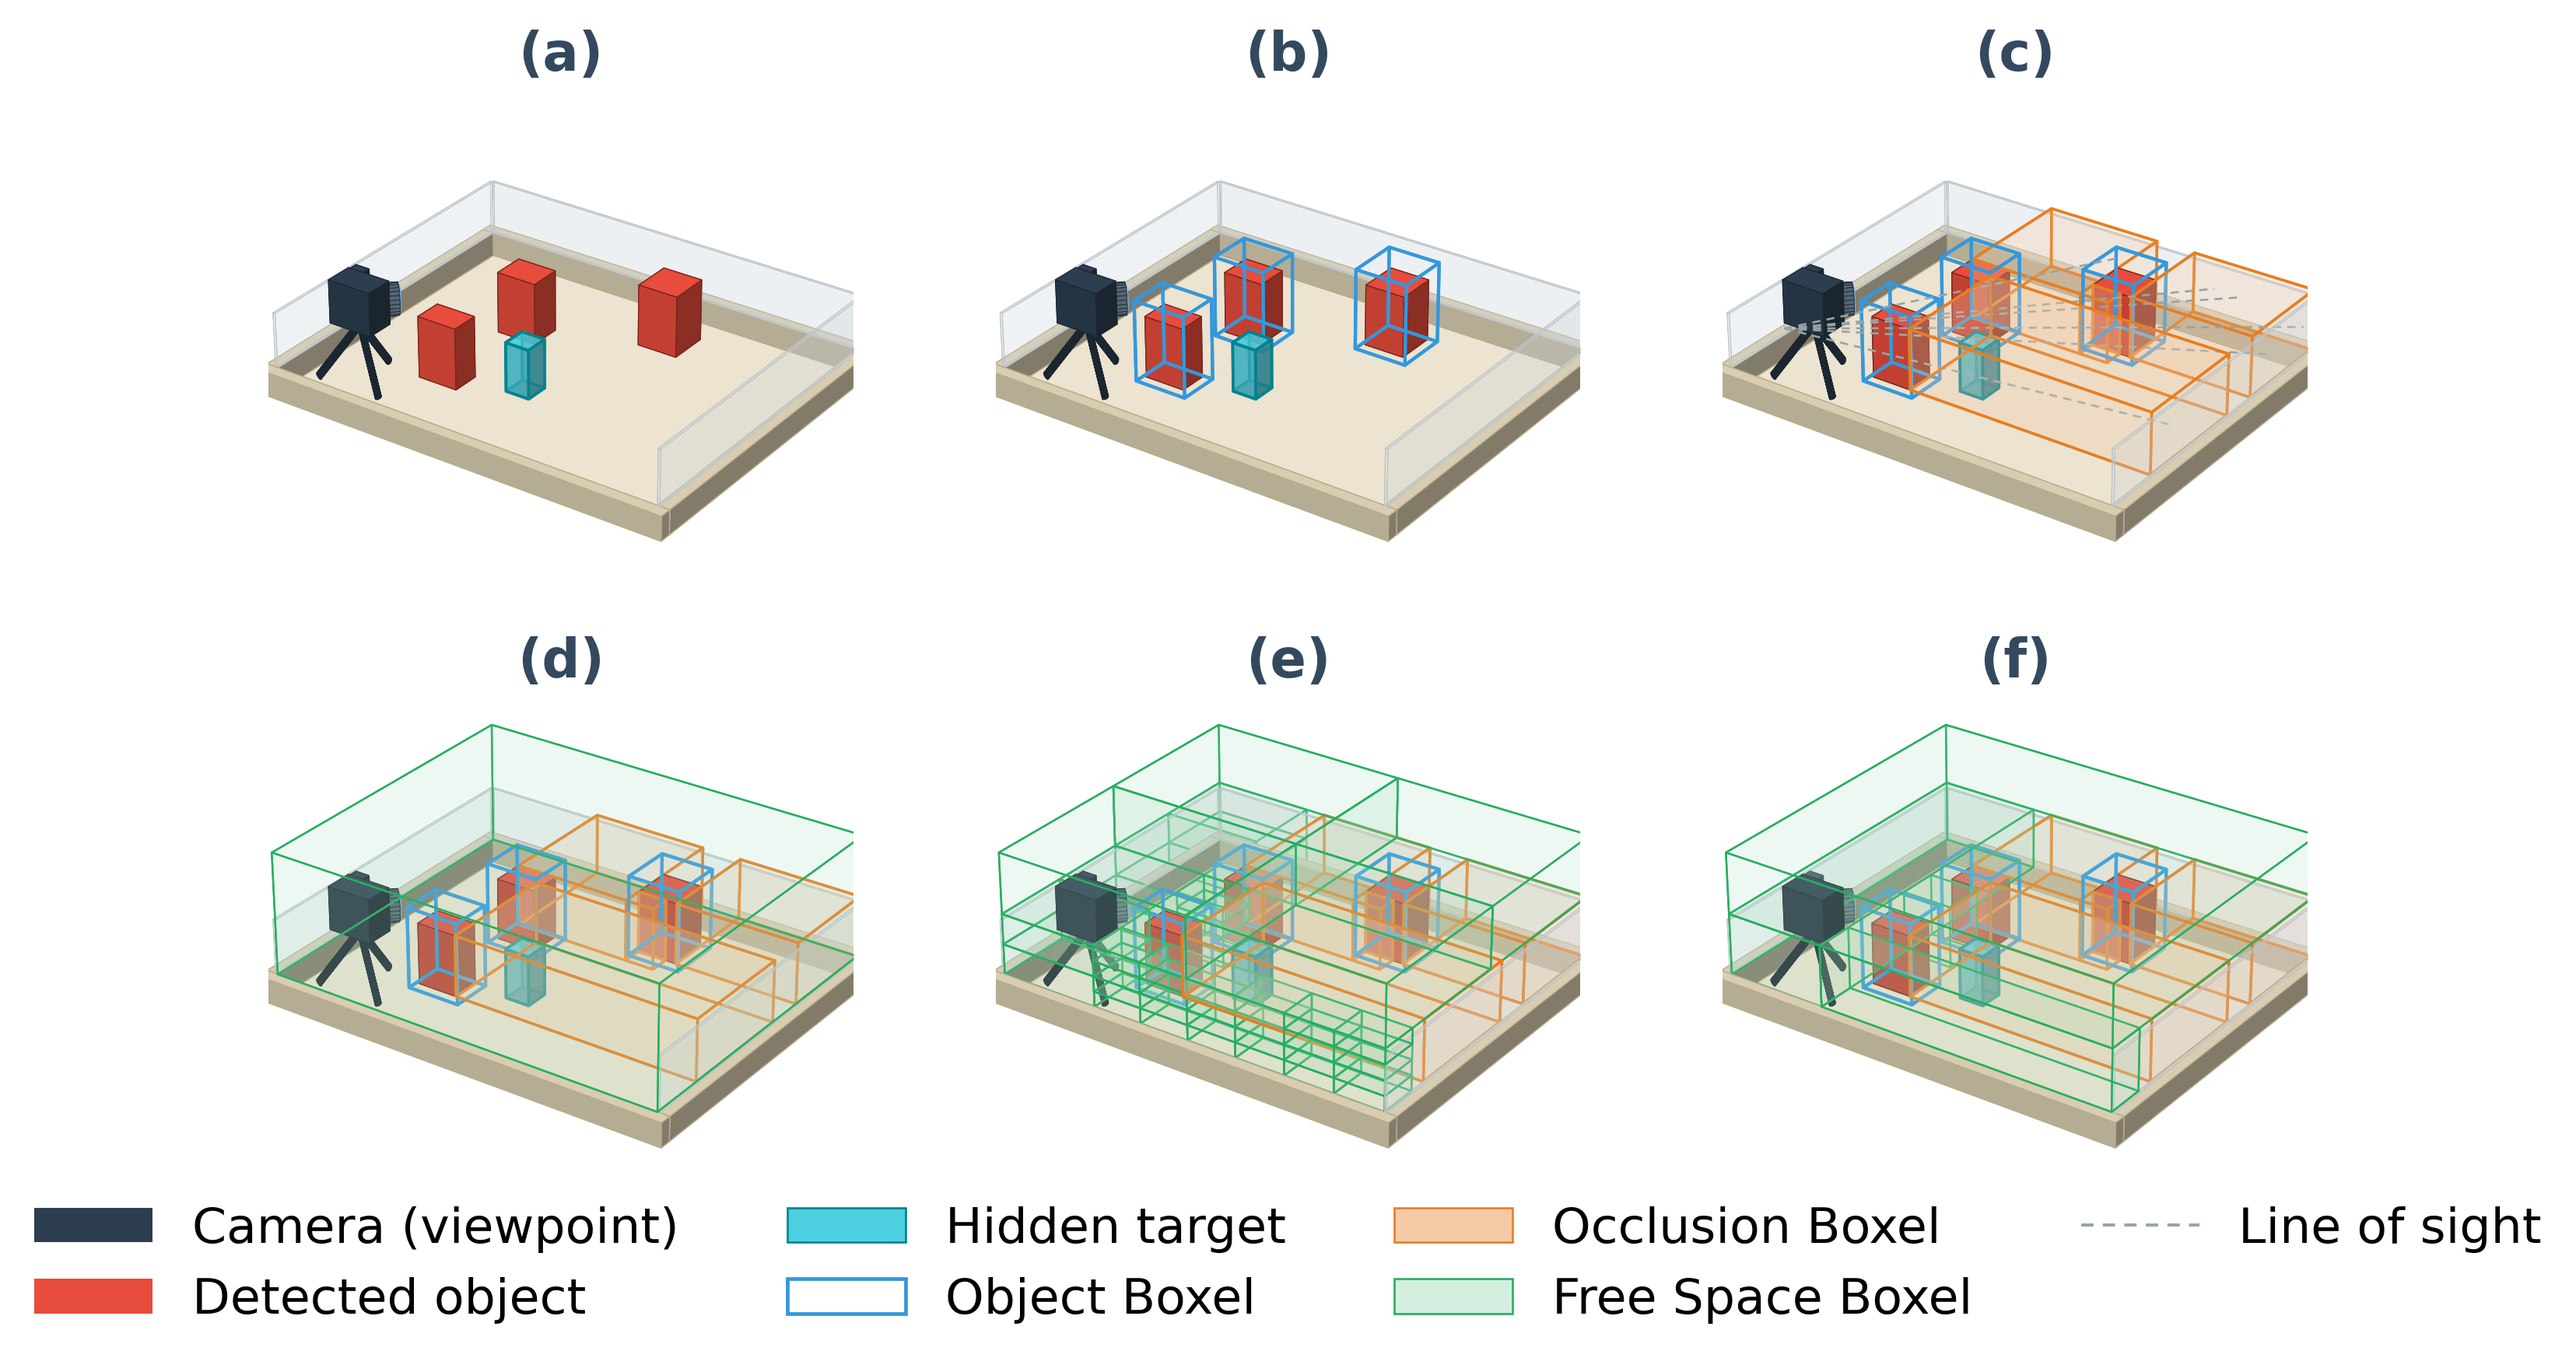
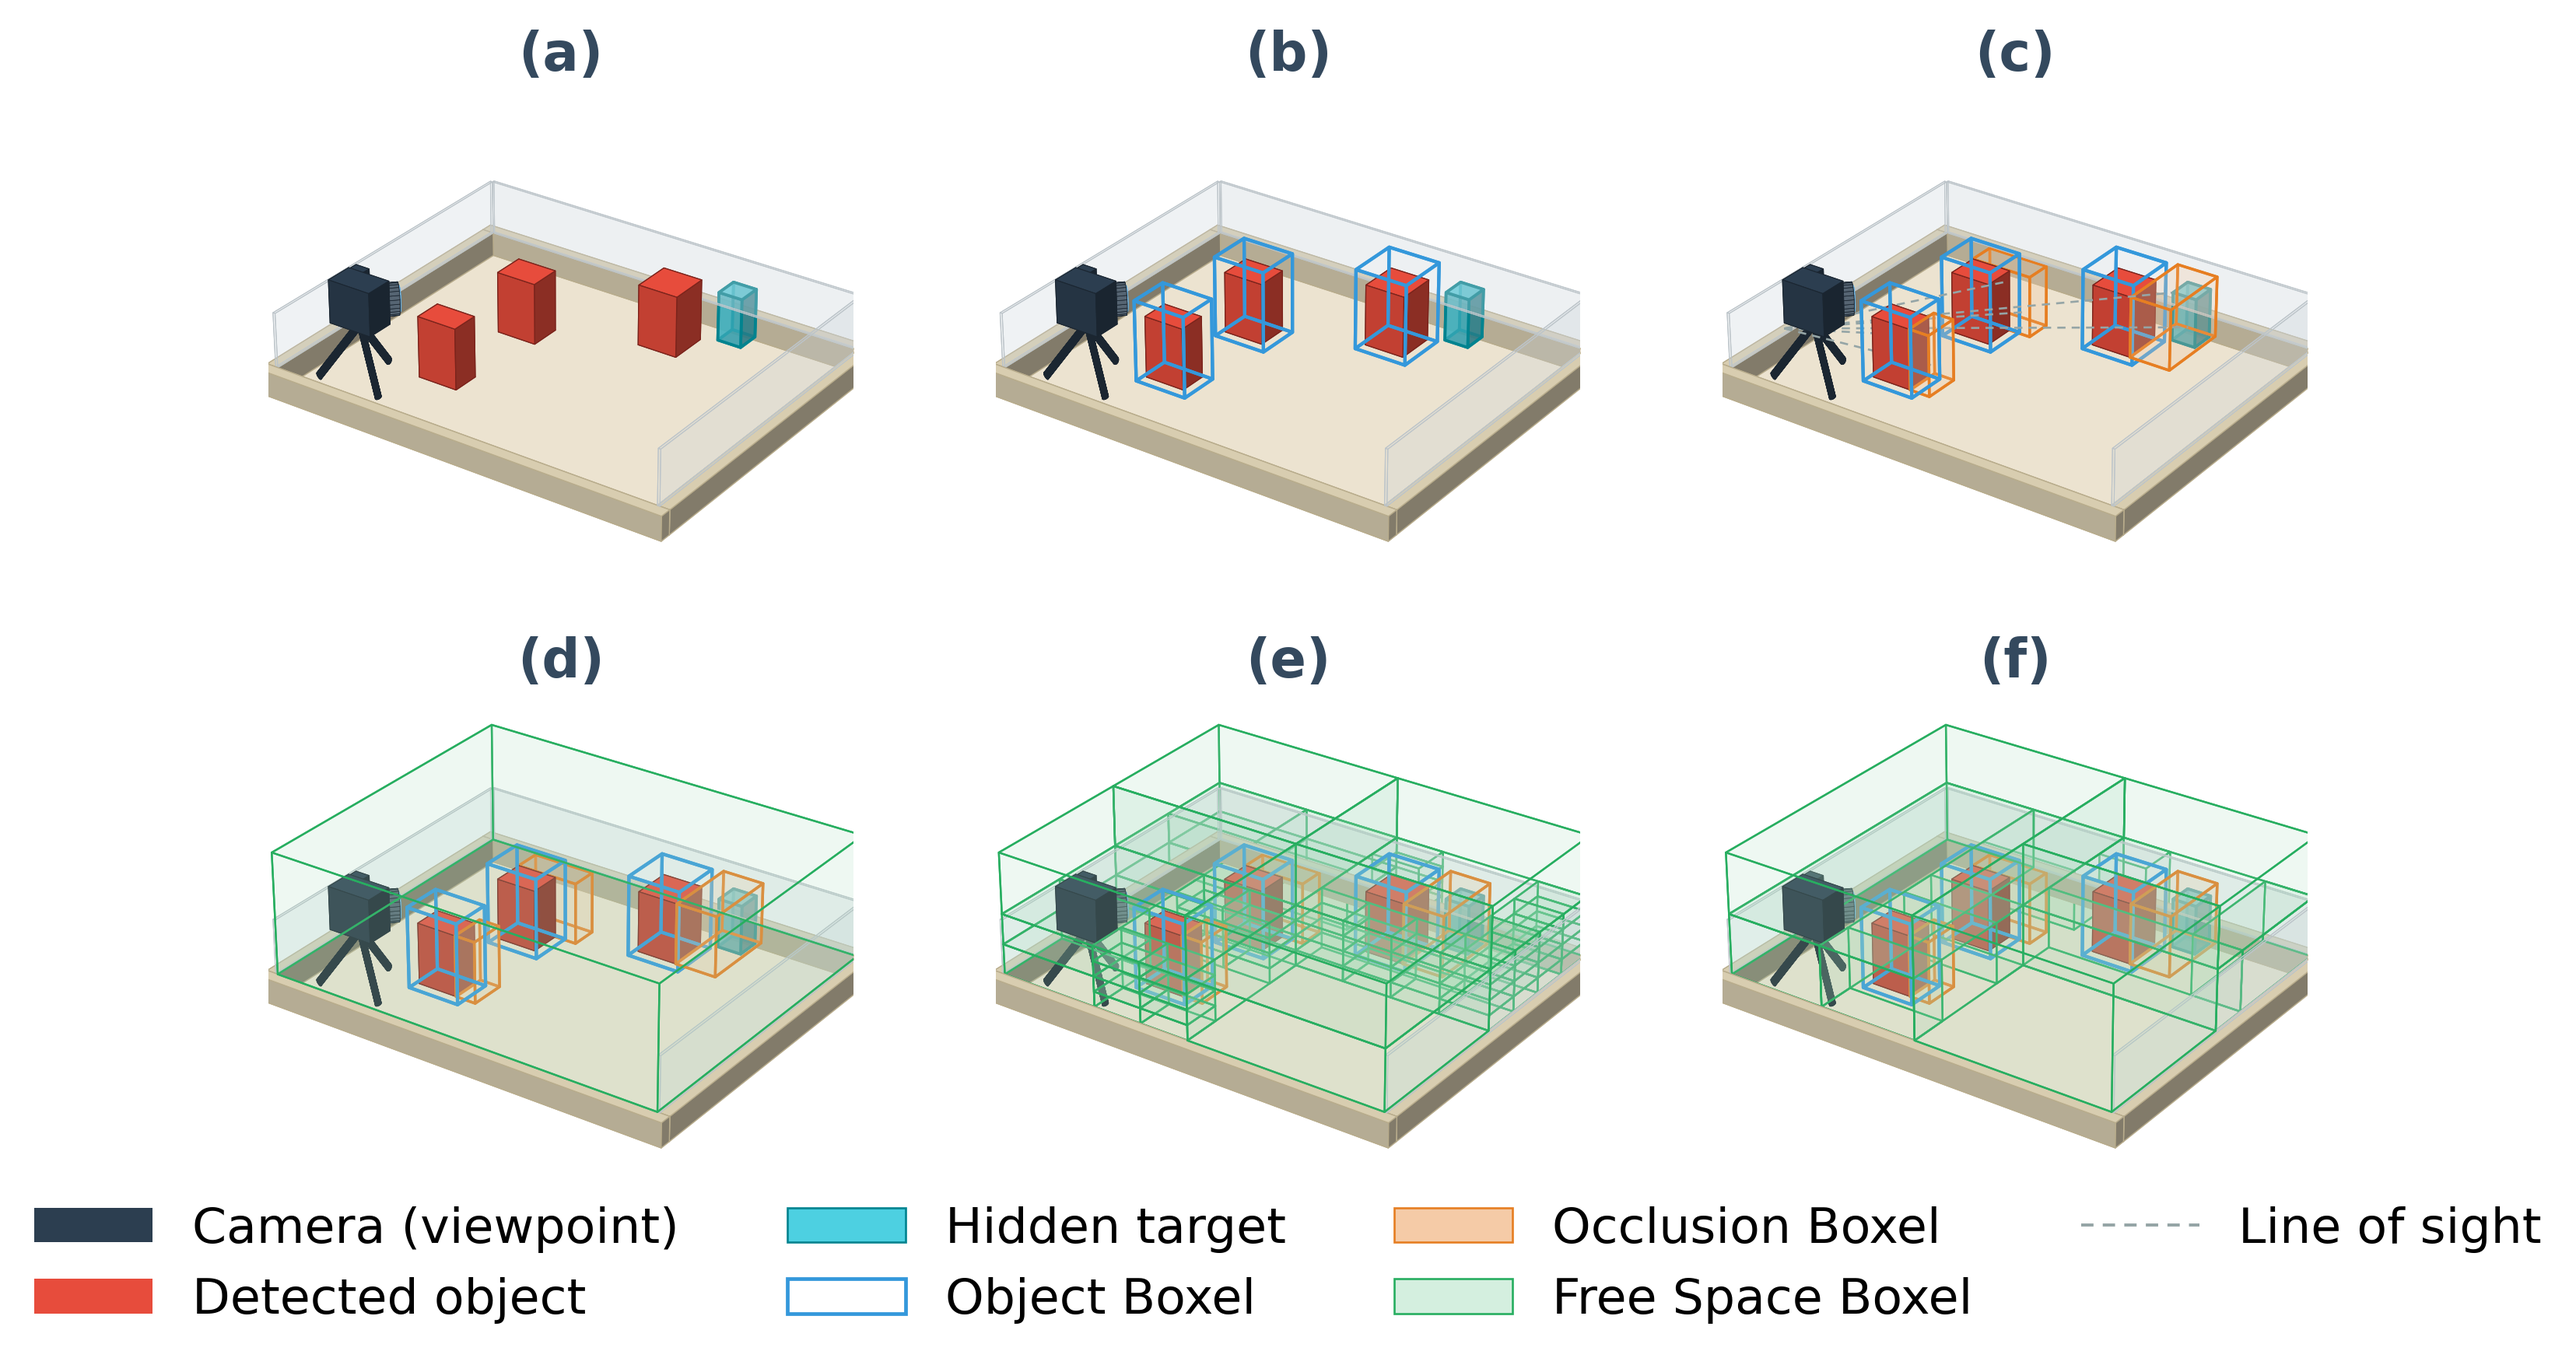
Fix #274: regenerate boxelization_3d.png with finite occlusion shadows

diff --git a/thesis_audit.md b/thesis_audit.md
@@ -1201,7 +1201,13 @@ Refs: results.tex (subsec:planning-time, fig:plantime-holding); results.tex:107.
 Refs: abstract.tex; introduction.tex; methods.tex.
 
 ================================================================================
-#274  [T2] [THESIS]  Methods fig:boxelization panel (c): schematic renders shadows to workspace boundary, not hidden-region end
+#274  [DONE 2026-06-04] [T2] [THESIS]  Methods fig:boxelization panel (c): schematic renders shadows to workspace boundary, not hidden-region end
+NOTE 2026-06-04: regenerated thesis/graphics/boxelization_3d.png with Windows Python
+(python tools\render_boxelization_3d.py) after the CODEBASE #114 code fix. Visually verified: panel (c)
+orange occlusion Boxels now stop mid-table where the sightlines meet the table (no longer sweeping to the
+workspace edge), the dashed lines of sight end at the same point, and the largest shadow behind the rear
+occluder still encloses the cyan hidden target; the freed edge space now shows as Free Space Boxels in
+(e)-(f). Camera tripod (#283) intact; other panels unchanged. Matches the #266 caption. Code-side = #114.
 ================================================================================
 [FOUND 2026-06-04 while fixing #266] The figure boxelization_3d.png panel (c) (thesis/graphics/) visibly
 sweeps the orange occlusion Boxels back to the table/workspace edges. Root cause is figure-rendering code:
